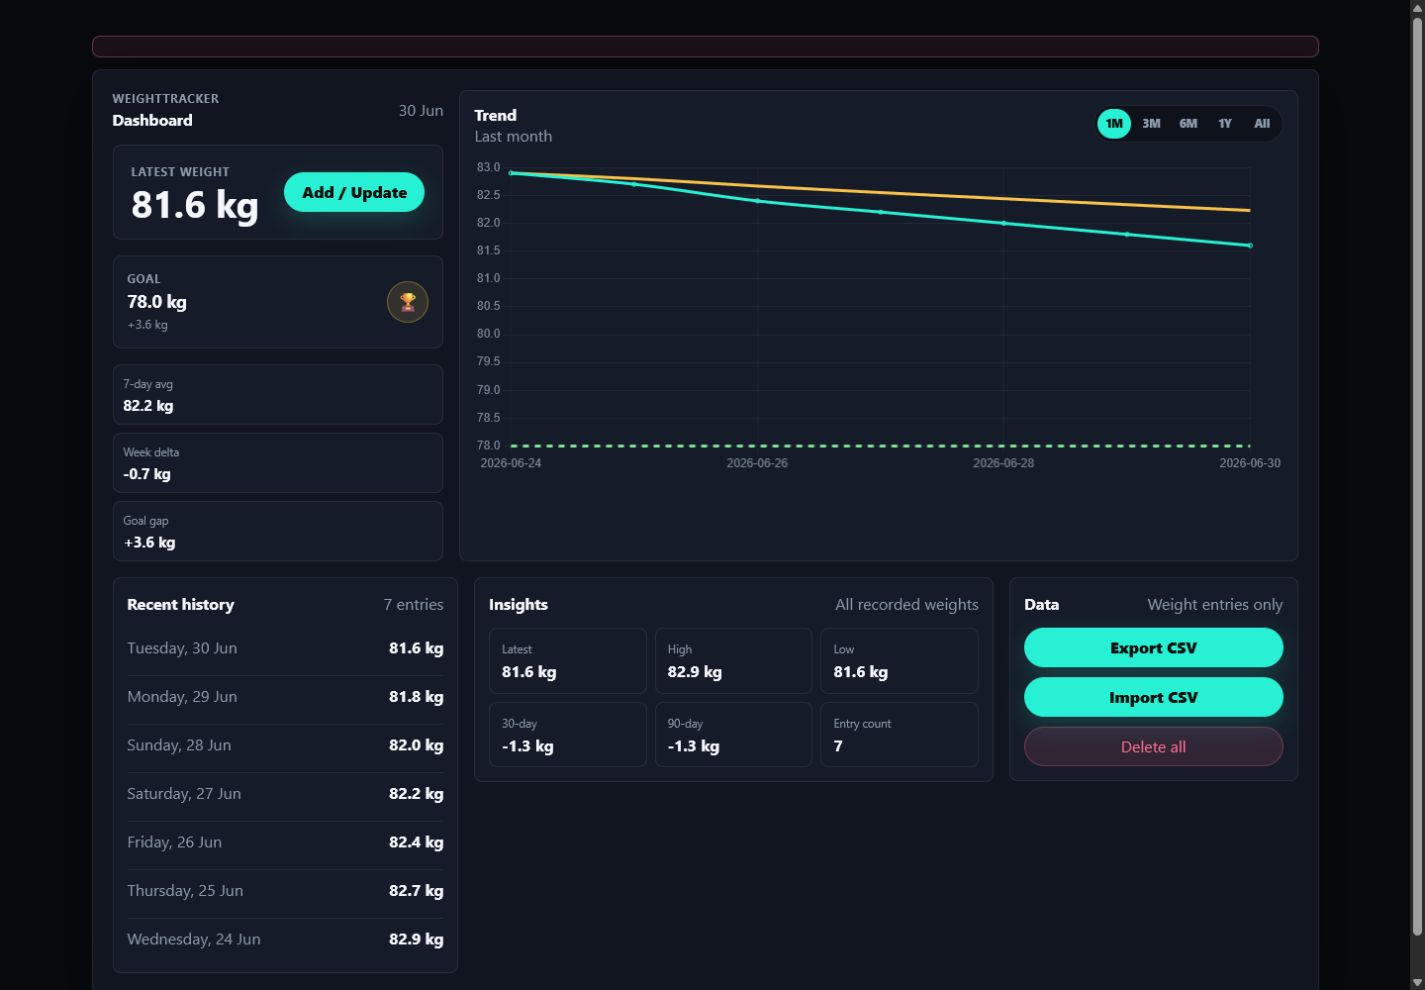
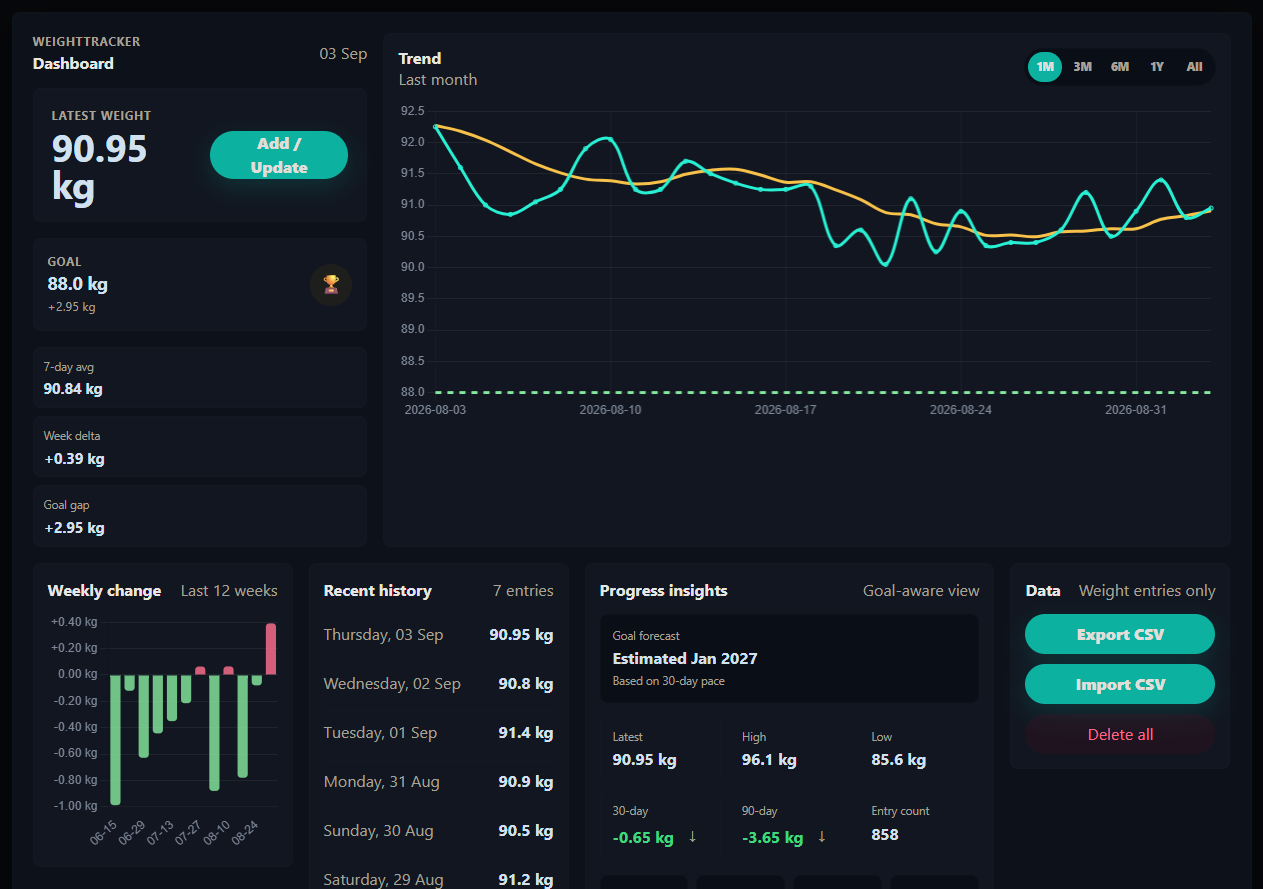
Publish a dev image on merges to development
Every merge into development now builds, tests, and pushes the result to
docker.io/carlocgc/weighttracker:dev, overwriting the tag each time. The tag
tracks the tip of the integration branch and is not a release, so it carries
no version history; latest and vX.Y.Z remain the release tags.

A concurrency group serialises the runs so two merges landing together cannot
race to overwrite the tag with the older commit, and the tests run before the
registry login so a red suite never publishes.

pr-build no longer triggers on pushes to development. That push ran the same
build, test, and image smoke test the pull request had already run against the
merge result, and would now be a third build on every merge.

Also replaces the dashboard screenshot with a current capture, cropped to the
app rather than the browser window. The previous file was a JPEG named .png.

diff --git a/README.md b/README.md
@@ -5,7 +5,8 @@
 </p>
 
 <p align="center">
-  <a href="https://github.com/carlocgc/WeightTracker/actions/workflows/pr-build.yml"><img alt="PR Build" src="https://github.com/carlocgc/WeightTracker/actions/workflows/pr-build.yml/badge.svg?branch=development"></a>
+  <a href="https://github.com/carlocgc/WeightTracker/actions/workflows/pr-build.yml"><img alt="PR Build" src="https://github.com/carlocgc/WeightTracker/actions/workflows/pr-build.yml/badge.svg"></a>
+  <a href="https://github.com/carlocgc/WeightTracker/actions/workflows/dev-image.yml"><img alt="Development Image" src="https://github.com/carlocgc/WeightTracker/actions/workflows/dev-image.yml/badge.svg"></a>
   <a href="https://github.com/carlocgc/WeightTracker/actions/workflows/release-docker.yml"><img alt="Release Docker Image" src="https://github.com/carlocgc/WeightTracker/actions/workflows/release-docker.yml/badge.svg"></a>
   <a href="https://github.com/carlocgc/WeightTracker/releases/latest"><img alt="Latest release" src="https://img.shields.io/github/v/release/carlocgc/WeightTracker?sort=semver&label=latest"></a>
   <a href="https://hub.docker.com/r/carlocgc/weighttracker"><img alt="Docker Hub" src="https://img.shields.io/docker/pulls/carlocgc/weighttracker?logo=docker&label=Docker%20Hub"></a>
@@ -64,6 +65,16 @@ To run the published Docker Hub image directly:
 docker run --name weighttracker --rm -p 18080:8080 -v weighttracker-data:/data carlocgc/weighttracker:latest
 ```
 
+## Development image
+
+Every merge into `development` builds, tests, and publishes the result as `docker.io/carlocgc/weighttracker:dev`. The `dev` tag is overwritten on each merge and tracks the tip of `development`, so it carries no version history and is not a release. Use `latest` or a `vX.Y.Z` tag for anything you care about keeping.
+
+```powershell
+docker run --name weighttracker-dev --rm -p 18080:8080 -v weighttracker-dev-data:/data carlocgc/weighttracker:dev
+```
+
+It uses the same `DOCKERHUB_USERNAME` and `DOCKERHUB_TOKEN` secrets as the release workflow.
+
 ## Releases
 
 Release tags must use `vX.Y.Z` format and point to a commit contained in `master`.
@@ -79,5 +90,5 @@ DOCKERHUB_TOKEN
 
 ## Branches
 
-- `master`: stable branch.
-- `development`: integration branch.
+- `master`: stable branch. Release tags are cut from here and publish `vX.Y.Z` and `latest`.
+- `development`: integration branch. Merges here publish `dev`.
